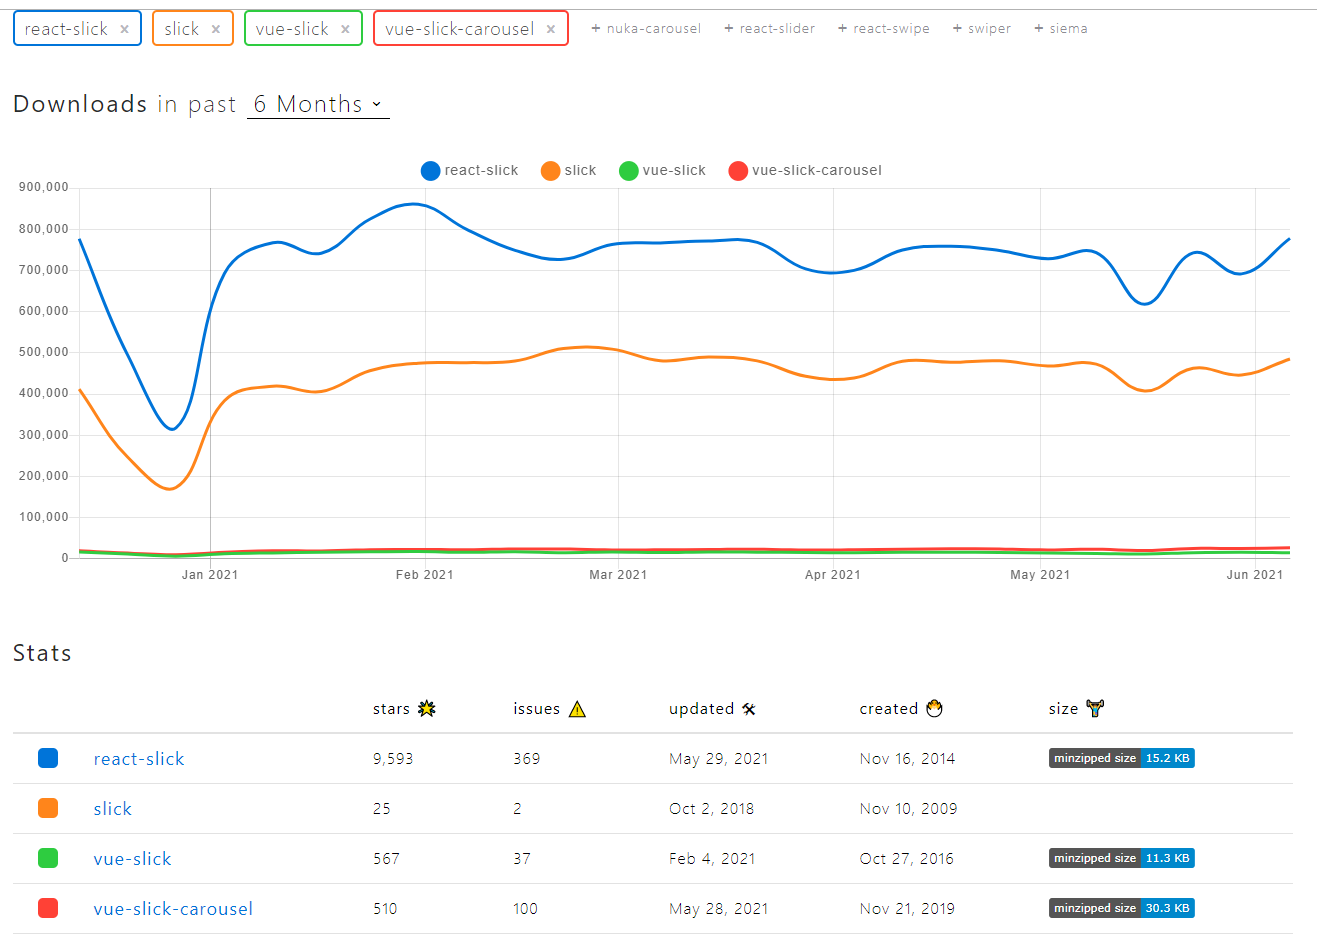
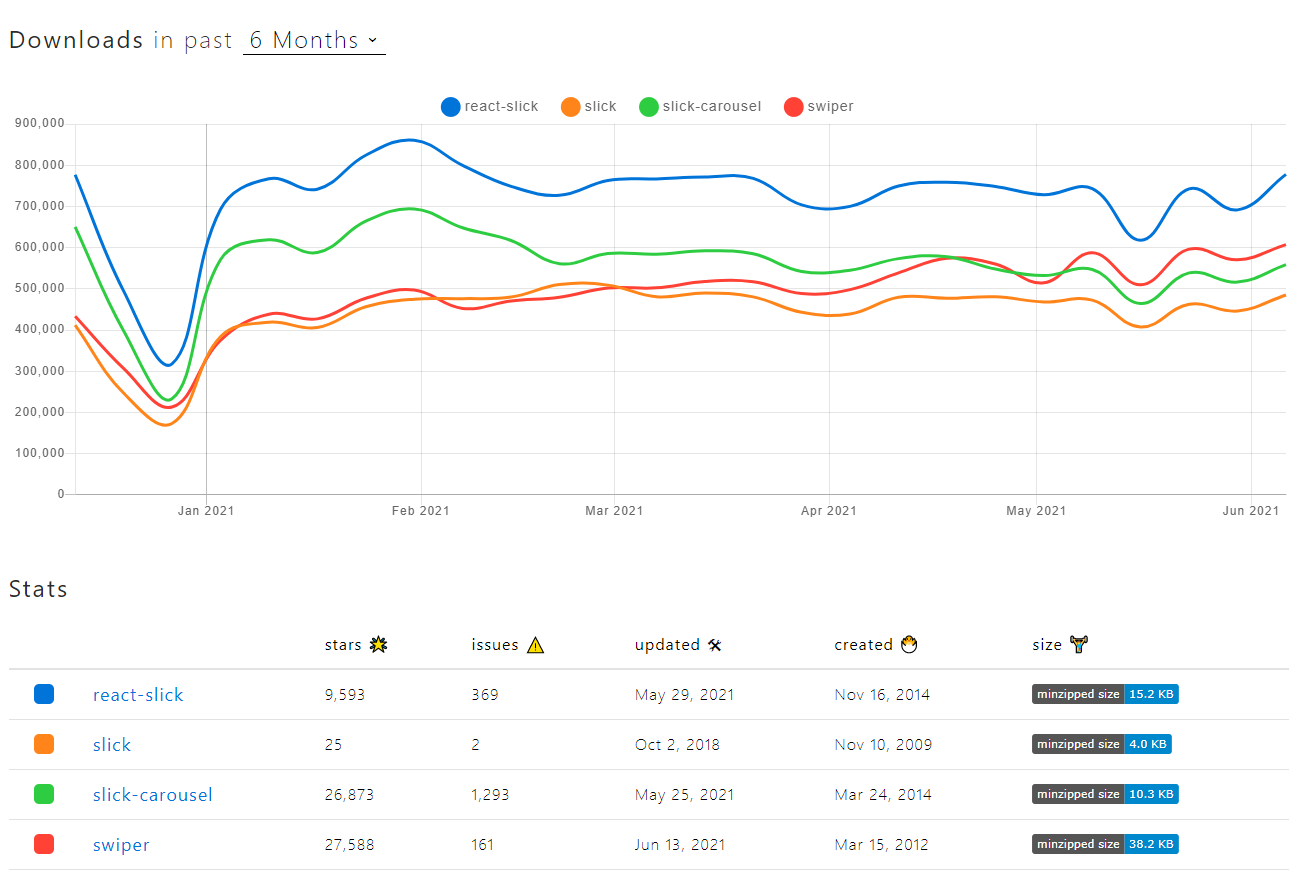
설명 변경

diff --git a/README.md b/README.md
@@ -22,7 +22,8 @@
 
 <img src="npmtrends-npm.png" />
 
-- 최근 6개월 가장 높은 stars와 다운로드 수를 차지하고 있는 react-slick, slick를 선택
+- 리액트 버전 npm으로는 최근 6개월 가장 높은 Stars와 Downloads를 차지하고 있는 react-slick를 선택
+- 제이쿼리 버전에서는 swiper가 더 인기가 많았으나, ie 하위 버전까지 잘 돌아가는 slick을 선택
 
 <hr />
 
